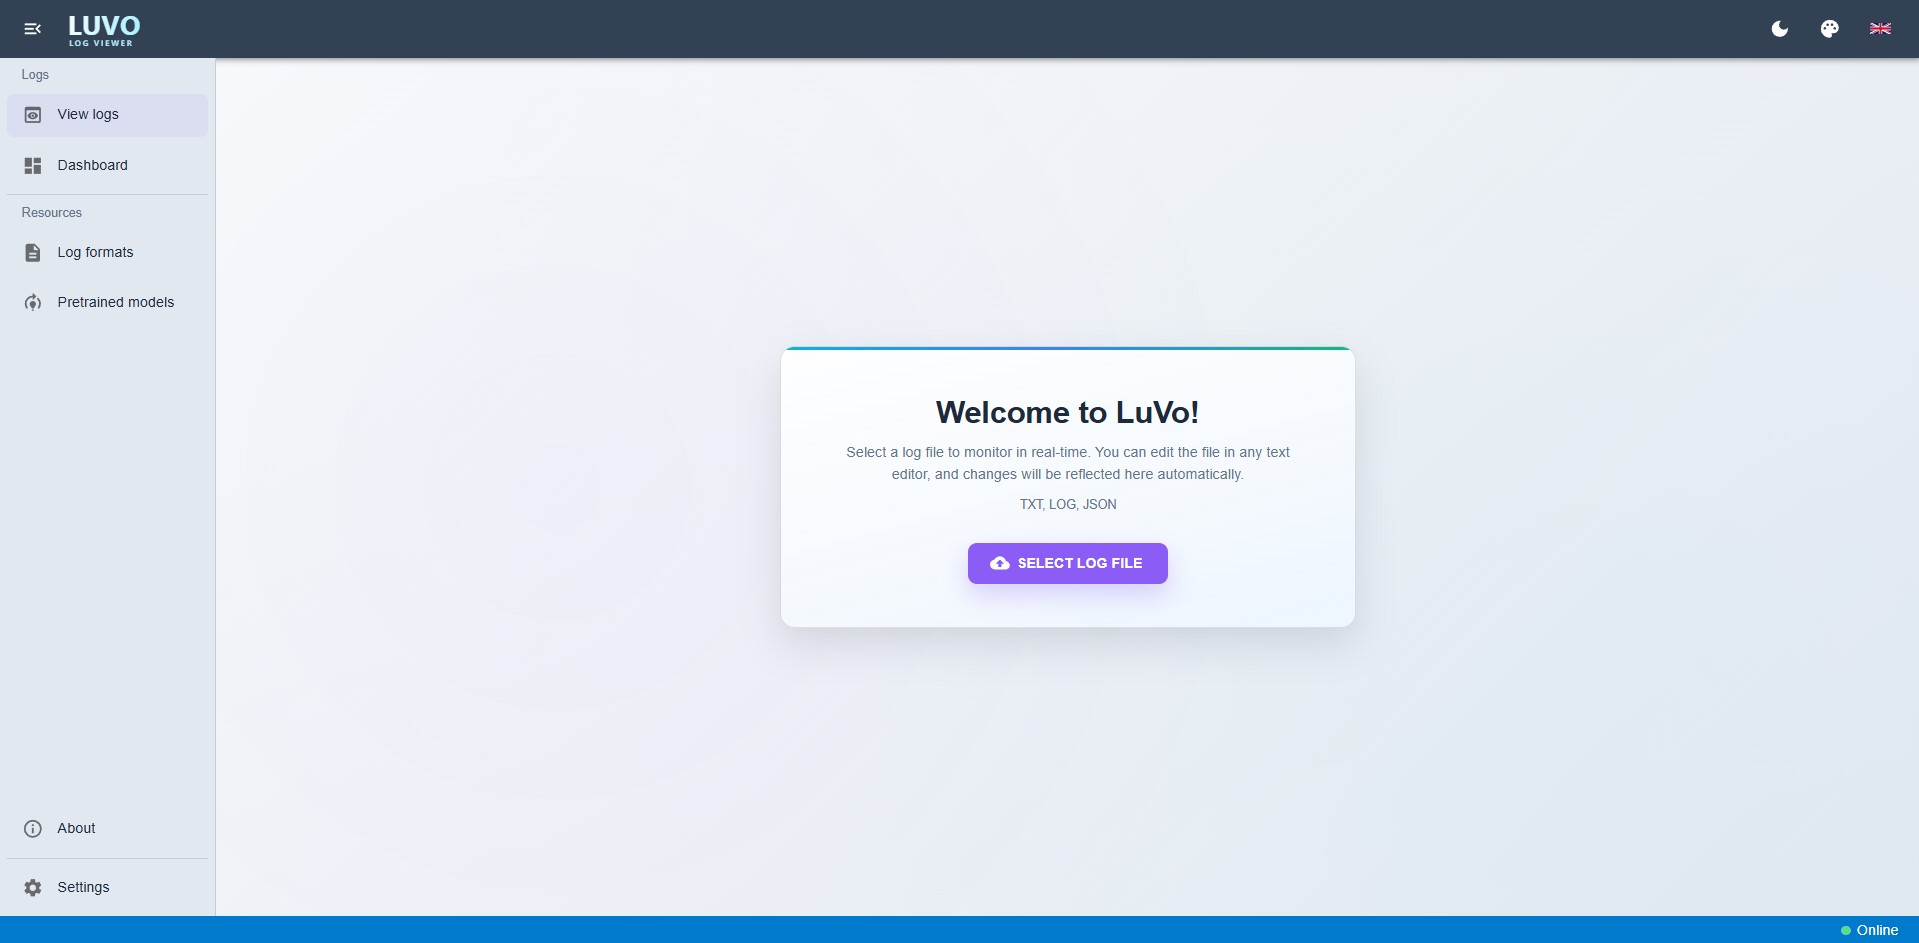
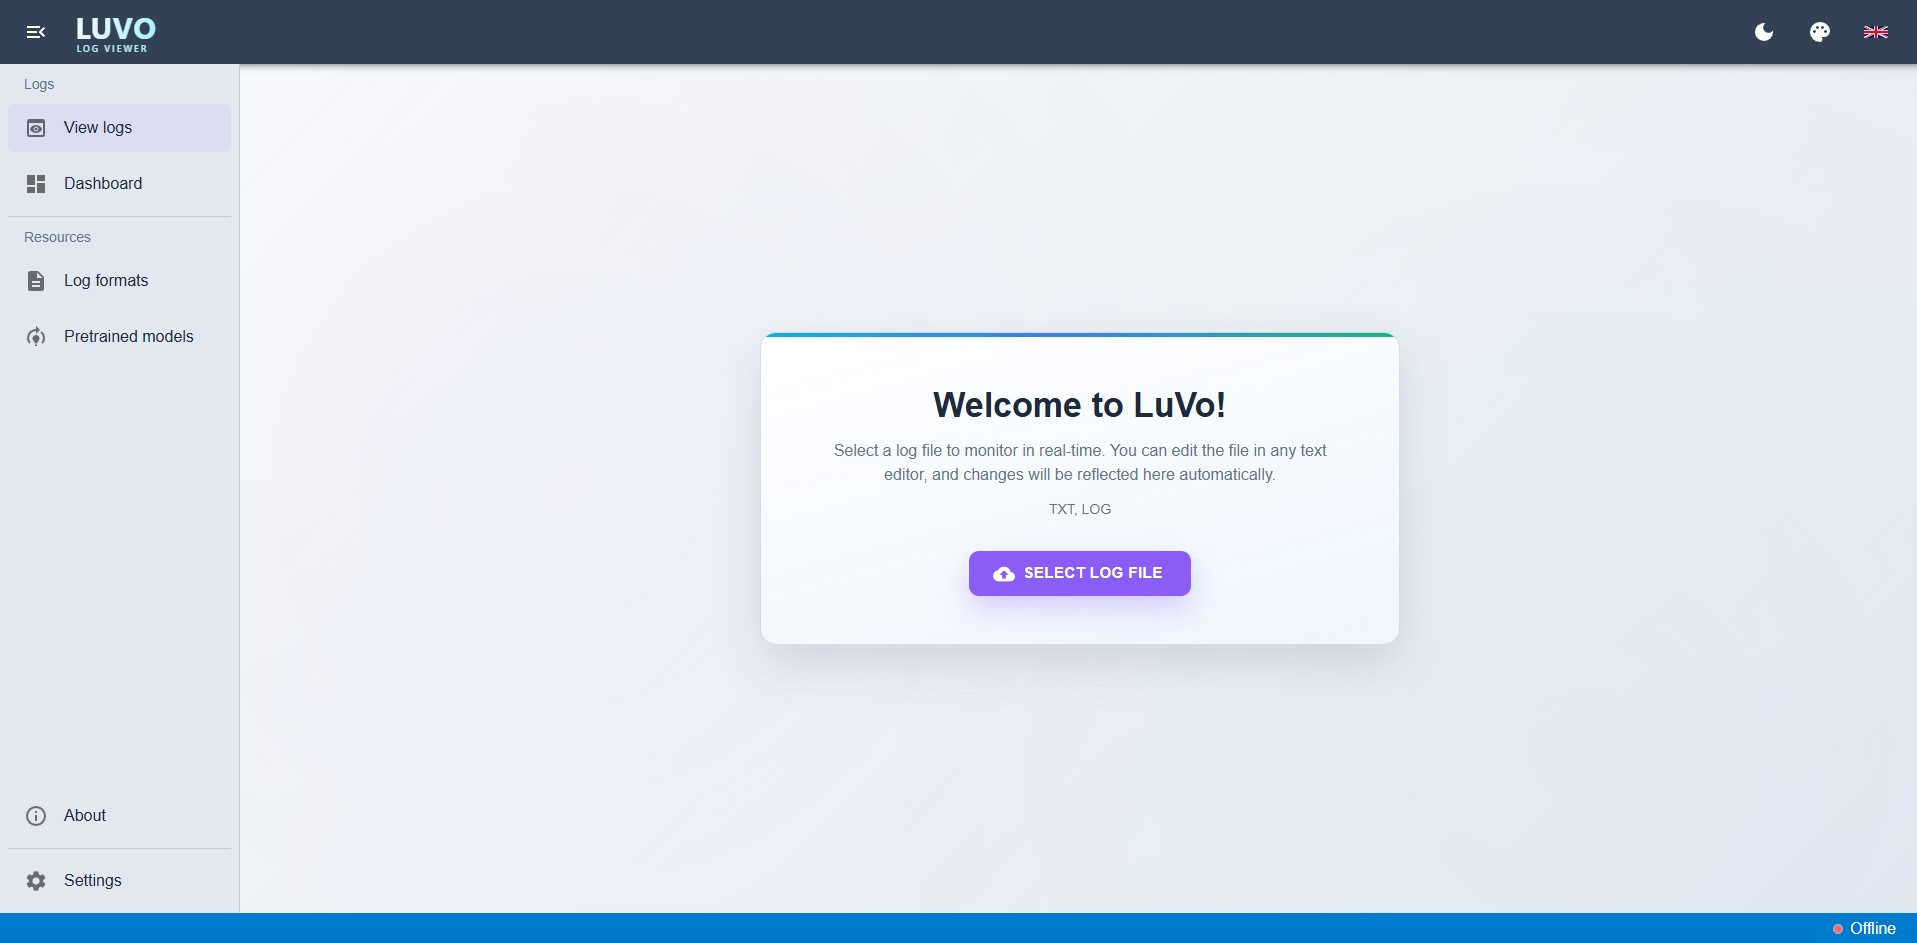
Fix user guide

diff --git a/user-guide/User_guide.md b/user-guide/User_guide.md
@@ -280,7 +280,7 @@ Pro běžnou práci je vhodné postupovat v tomto pořadí:
 
 ### Soubor se nenačetl správně
 
-- Ověřte, že jde o podporovaný soubor s příponou `.txt`, `.log` nebo `.json`.
+- Ověřte, že jde o podporovaný soubor s příponou `.txt`, `.log`.
 - Pokud formát není rozpoznán, vytvořte vlastní formát v Log Formats.
 - U velkého souboru počítejte s tím, že před nahráním na server bude dostupné pouze základní prohlížení řádků.
 
